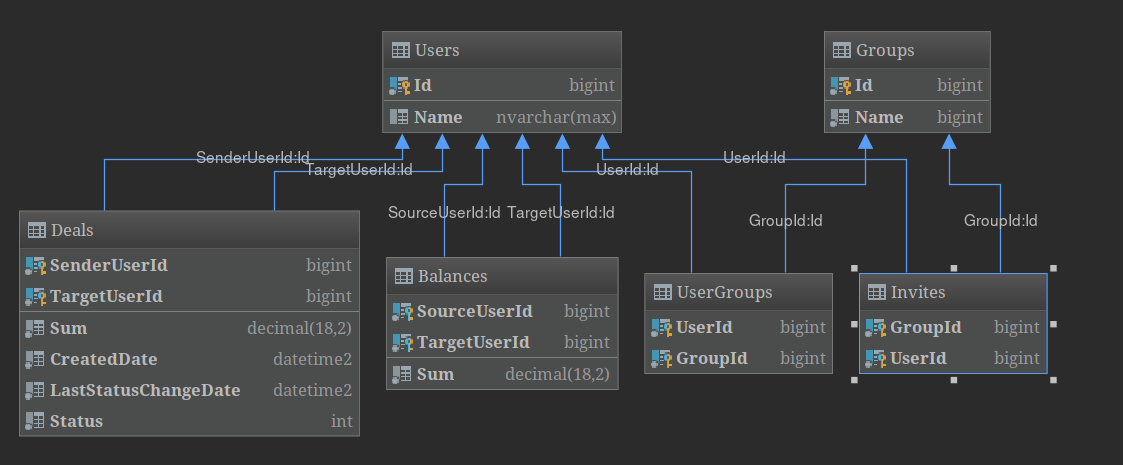
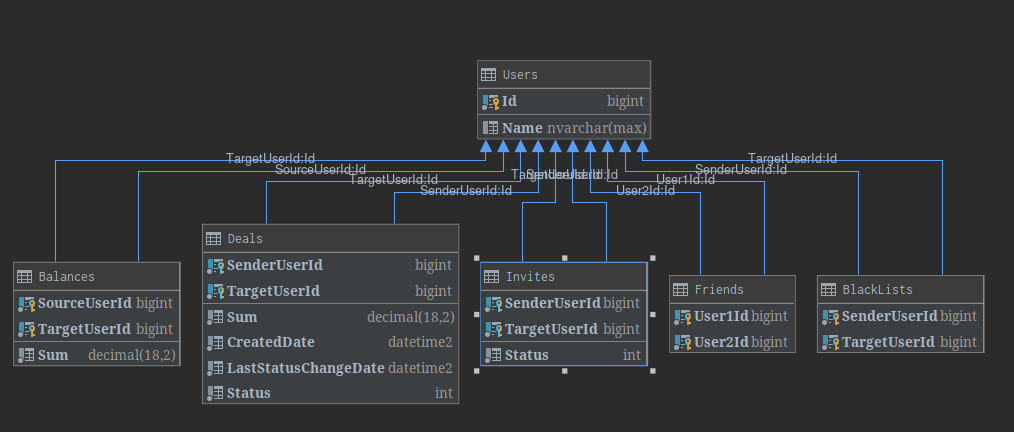
Replace group with friend. Change DataScheme

Changed region(s): [[0.0, 0.0602, 0.9783, 0.963], [0.856, 0.4514, 0.9477, 0.5116], [0.428, 0.9028, 0.4586, 0.9329]]

diff --git a/TreasuryDepartment/Models/TreasuryDepartmentContext.cs b/TreasuryDepartment/Models/TreasuryDepartmentContext.cs
@@ -11,11 +11,11 @@ namespace TreasuryDepartment.Models
 		}
 
 		public DbSet<Balance> Balances { get; set; }
+		public DbSet<BlackList> BlackLists { get; set; }
 		public DbSet<Deal> Deals { get; set; }
-		public DbSet<Group> Groups { get; set; }
+		public DbSet<Friend> Friends { get; set; }
 		public DbSet<Invite> Invites { get; set; }
 		public DbSet<User> Users { get; set; }
-		public DbSet<UserGroup> UserGroups { get; set; }
 
 		protected override void OnModelCreating(ModelBuilder modelBuilder)
 		{
@@ -34,6 +34,20 @@ namespace TreasuryDepartment.Models
 
 			});
 
+			modelBuilder.Entity<BlackList>(entity =>
+			{
+				entity.HasKey(t => new { t.SenderUserId, t.TargetUserId });
+
+				entity.HasOne(f => f.SenderUser)
+					.WithMany(su => su.OutcomeBlackLists)
+					.HasForeignKey(ug => ug.SenderUserId)
+					.OnDelete(DeleteBehavior.Restrict);
+
+				entity.HasOne(bl => bl.TargetUser)
+					.WithMany(su => su.IncomeBlackLists)
+					.HasForeignKey(ug => ug.TargetUserId);
+			});
+
 			modelBuilder.Entity<Deal>(entity =>
 			{
 				entity.HasKey(t => new { t.SenderUserId, t.TargetUserId });
@@ -48,14 +62,31 @@ namespace TreasuryDepartment.Models
 					.HasForeignKey(ug => ug.TargetUserId);
 			});
 
-			modelBuilder.Entity<Invite>(entity =>
+			modelBuilder.Entity<Friend>(entity =>
 			{
-				entity.HasKey(i => new { i.UserId, i.GroupId });
+				entity.HasKey(t => new { t.User1Id, t.User2Id });
+
+				entity.HasOne(f => f.User1)
+					.WithMany(su => su.OutcomeFriends)
+					.HasForeignKey(ug => ug.User1Id)
+					.OnDelete(DeleteBehavior.Restrict);
+
+				entity.HasOne(f => f.User2)
+					.WithMany(su => su.IncomeFriends)
+					.HasForeignKey(ug => ug.User2Id);
 			});
 
-			modelBuilder.Entity<UserGroup>(entity =>
+			modelBuilder.Entity<Invite>(entity =>
 			{
-				entity.HasKey(t => new { t.UserId, t.GroupId });
+				entity.HasKey(i => new { i.SenderUserId, i.TargetUserId });
+				entity.HasOne(d => d.SenderUser)
+					.WithMany(su => su.SentInvites)
+					.HasForeignKey(ug => ug.SenderUserId)
+					.OnDelete(DeleteBehavior.Restrict);
+
+				entity.HasOne(d => d.TargetUser)
+					.WithMany(su => su.ReciviedInvites)
+					.HasForeignKey(ug => ug.TargetUserId);
 			});
 		}
 	}

diff --git a/TreasuryDepartment/Models/User.cs b/TreasuryDepartment/Models/User.cs
@@ -8,7 +8,13 @@ namespace TreasuryDepartment.Models
 		public long Id { get; set; }
 		public string Name { get; set; }
 
-		public ICollection<UserGroup> UserGroups { get; set; } = new List<UserGroup>();
+		public ICollection<Friend> OutcomeFriends { get; set; } = new List<Friend>();
+		public ICollection<Friend> IncomeFriends { get; set; } = new List<Friend>();
+		public ICollection<BlackList> OutcomeBlackLists { get; set; } = new List<BlackList>();
+		public ICollection<BlackList> IncomeBlackLists { get; set; } = new List<BlackList>();
+
+
+		public ICollection<Invite> SentInvites { get; set; } = new HashSet<Invite>();
 		public ICollection<Invite> ReciviedInvites { get; set; } = new HashSet<Invite>();
 
 		public ICollection<Balance> OutcomeBalances { get; set; } = new HashSet<Balance>();

diff --git a/TreasuryDepartment/Models/BlackList.cs b/TreasuryDepartment/Models/BlackList.cs
@@ -1,20 +1,10 @@
-using TreasuryDepartment.Models;
-
 namespace TreasuryDepartment.Models
 {
-	public class Invite
+	public class BlackList
 	{
 		public long SenderUserId { get; set; }
 		public User SenderUser { get; set; }
 		public long TargetUserId { get; set; }
 		public User TargetUser { get; set; }
-		public InviteStatus Status { get; set; } = InviteStatus.Created;
-	}
-
-	public enum InviteStatus
-	{
-		Created,
-		Accepted,
-		Declined
 	}
 }

diff --git a/TreasuryDepartment/Models/Friend.cs b/TreasuryDepartment/Models/Friend.cs
@@ -1,0 +1,10 @@
+namespace TreasuryDepartment.Models
+{
+	public class Friend
+	{
+		public long User1Id { get; set; }
+		public User User1 { get; set; }
+		public long User2Id { get; set; }
+		public User User2 { get; set; }
+	}
+}
